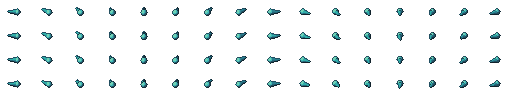
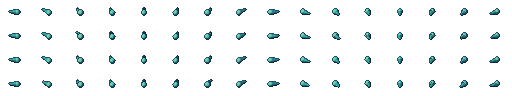
feat: projectiles du joueur plus petits et au même niveau de finition, bordure allégée, traînée de vitesse, vraie assiette, Instantané doré (plan 25 S1c, DECISIONS §159)

diff --git a/tools/sprites/projectiles.py b/tools/sprites/projectiles.py
@@ -2,11 +2,15 @@
 
 Un projectile vole à hauteur de buste ; son avant local est +Z. Les projectiles orientés sont prérendus
 dans 16 directions d'écran pour ne jamais tourner un sprite en jeu (pixels de biais). Les objets qui
-tournoient (hache, pierre) ou rayonnent (orbe, note) portent leur animation dans les frames.
+tournoient (assiette, bille) ou rayonnent (orbe, note) portent leur animation dans les frames.
+
+Projectiles du joueur (plan 25 S1c) : chacun est rendu à sa taille finale, sans agrandissement en jeu qui épaissirait
+pixels et contour ; une flèche fait environ la moitié de la hauteur d'un héros, une bille un quart. Les tirs
+physiques laissent une courte traînée de vitesse (`streak`), qui les fait lire comme des objets lancés.
 """
 from __future__ import annotations
 
-from dataclasses import dataclass
+from dataclasses import dataclass, replace
 from typing import Callable, Sequence
 
 import numpy as np
@@ -29,6 +33,8 @@ class ProjectileModel:
     outline: str | None = None
     dissolve: bool = False
     opacity: tuple[int, ...] = ()
+    # Longueur en pixels de la traînée pâle laissée derrière un projectile orienté, 0 sans traînée.
+    streak: int = 0
 
 
 def _rotated(distance, rotation: np.ndarray):
@@ -40,6 +46,14 @@ def _flat(distance, squash: float):
     """Aplatit un volume en hauteur (Y) : une pièce couchée au sol se lit de dessus, comme une aiguille de boussole."""
     factor = np.array([1.0, squash, 1.0])
     return lambda p: distance(p * factor) / squash
+
+
+def _sized(model: ProjectileModel, factor: float, frame_size: tuple[int, int] | None = None) -> ProjectileModel:
+    """Le même modèle mis à l'échelle en volume : redessiné à sa taille finale, contour d'un pixel compris."""
+    def parts(frame: int) -> Sequence[Part]:
+        return [replace(part, distance=lambda p, distance=part.distance: distance(p / factor) * factor)
+                for part in model.parts(frame)]
+    return replace(model, parts=parts, frame_size=frame_size or model.frame_size)
 
 
 def _arrow() -> ProjectileModel:
@@ -56,7 +70,7 @@ def _arrow() -> ProjectileModel:
             Part(lambda p: rounded_box(p, (0, -2.2, -11), (0.35, 2.0, 2.8), 0.3), 3),
         )
 
-    return ProjectileModel(materials, parts, (32, 24), 16, 1, 0)
+    return _sized(ProjectileModel(materials, parts, (32, 24), 16, 1, 0, streak=5), 0.76)
 
 
 def _bolt() -> ProjectileModel:
@@ -73,7 +87,7 @@ def _bolt() -> ProjectileModel:
             Part(lambda p: rounded_box(p, (0, 0, -6), (3.2, 0.4, 1.8), 0.2), 2),
         )
 
-    return ProjectileModel(materials, parts, (24, 24), 16, 1, 0)
+    return _sized(ProjectileModel(materials, parts, (24, 24), 16, 1, 0, streak=4), 0.88)
 
 
 def _needle() -> ProjectileModel:
@@ -88,7 +102,7 @@ def _needle() -> ProjectileModel:
             Part(lambda p: cylinder(p, (0, 0.3, 0), 2.2, 0.9, 0.3), 2),
         )
 
-    return ProjectileModel(materials, parts, (32, 24), 16, 1, 0)
+    return _sized(ProjectileModel(materials, parts, (32, 24), 16, 1, 0, streak=4), 0.92)
 
 
 def _shard() -> ProjectileModel:
@@ -106,22 +120,24 @@ def _shard() -> ProjectileModel:
             Part(lambda p: capsule(p, (0, 0, -8), (0, 0, -16), 0.9, 0.2), 2),
         )
 
-    return ProjectileModel(materials, parts, (32, 24), 16, 1, 0)
+    return _sized(ProjectileModel(materials, parts, (32, 24), 16, 1, 0), 0.88)
 
 
 def _flash() -> ProjectileModel:
-    """Flash photo : étoile de lumière à quatre branches qui palpite, sans orientation."""
-    materials = (make_emissive("burst", "#F5F0FF"), make_material("halo", "#B8A8E8", contrast=0.7))
-    sizes = (6.0, 8.5, 7.0, 9.0)
+    """Flash de l'Instantané : étoile de lumière à quatre branches qui palpite, sans orientation. Cœur chaud et
+    branches dorées : un flash blanc se perdait dans les éclairs d'impact, blancs eux aussi."""
+    materials = (make_emissive("core", "#FFF6D6"), make_emissive("burst", "#FFC53A"),
+                 make_material("glint", "#E8742A", contrast=0.9))
+    sizes = (4.6, 6.2, 5.2, 6.8)
 
     def parts(frame: int) -> Sequence[Part]:
         size = sizes[frame]
         return (
-            Part(lambda p: sphere(p, (0, 0, 0), 2.4), 0),
-            Part(lambda p: capsule(p, (-size, 0, 0), (size, 0, 0), 1.3, 1.3), 0),
-            Part(lambda p: capsule(p, (0, -size * 0.8, 0), (0, size * 0.8, 0), 1.3, 1.3), 0),
-            Part(lambda p: capsule(p, (-size * 0.45, -size * 0.45, 0), (size * 0.45, size * 0.45, 0), 0.7), 1),
-            Part(lambda p: capsule(p, (-size * 0.45, size * 0.45, 0), (size * 0.45, -size * 0.45, 0), 0.7), 1),
+            Part(lambda p: capsule(p, (-size, 0, 0), (size, 0, 0), 1.1, 1.1), 1),
+            Part(lambda p: capsule(p, (0, -size * 0.8, 0), (0, size * 0.8, 0), 1.1, 1.1), 1),
+            Part(lambda p: capsule(p, (-size * 0.45, -size * 0.45, 0), (size * 0.45, size * 0.45, 0), 0.6), 2),
+            Part(lambda p: capsule(p, (-size * 0.45, size * 0.45, 0), (size * 0.45, -size * 0.45, 0), 0.6), 2),
+            Part(lambda p: sphere(p, (0, 0, 0.5), 2.0), 0),
         )
 
     return ProjectileModel(materials, parts, (24, 24), 1, len(sizes), 14)
@@ -140,7 +156,7 @@ def _chalk() -> ProjectileModel:
             Part(_rotated(lambda p: capsule(p, (0, 5, 0), (0, 8.5, 0), 2.0, 0.5), spin), 2),
         )
 
-    return ProjectileModel(materials, parts, (24, 24), 16, 4, 14)
+    return ProjectileModel(materials, parts, (24, 24), 16, 4, 14, streak=4)
 
 
 def _stone() -> ProjectileModel:
@@ -156,7 +172,7 @@ def _stone() -> ProjectileModel:
             Part(lambda p: sphere(p, (-1.6, 2.4, 1.8), 1.1), 2),
         )
 
-    return ProjectileModel(materials, parts, (24, 24), 1, 4, 14)
+    return ProjectileModel(materials, parts, (16, 16), 16, 4, 14, streak=4)
 
 
 def _flame() -> ProjectileModel:
@@ -175,7 +191,7 @@ def _flame() -> ProjectileModel:
             Part(lambda p: capsule(p, (2.2, 1.5, 0), (3.2 + lean, 7, -1), 1.6, 0.2), 2),
         )
 
-    return ProjectileModel(materials, parts, (24, 32), 1, len(sway), 12)
+    return _sized(ProjectileModel(materials, parts, (24, 32), 1, len(sway), 12), 1.15)
 
 
 def _comet() -> ProjectileModel:
@@ -193,23 +209,27 @@ def _comet() -> ProjectileModel:
             Part(lambda p: capsule(p, (bend, 0.4, -7), (-bend, 0.8, -13), 1.6, 0.3), 2),
         )
 
-    return ProjectileModel(materials, parts, (32, 24), 16, len(sway), 10)
+    return _sized(ProjectileModel(materials, parts, (32, 24), 16, len(sway), 10), 0.95)
 
 
-def _axe() -> ProjectileModel:
-    materials = (make_material("handle", "#7A5C42"), make_material("blade", "#9E9494", contrast=1.2),
-                 make_material("edge", "#E8E0D4", contrast=0.7))
+def _plate() -> ProjectileModel:
+    """Assiette lancée à plat comme un palet : faïence blanche à liseré bleu, qui vacille en tournant ; le motif
+    du marli fait le tour pour montrer la rotation."""
+    materials = (make_material("rim", "#4A6FA8", contrast=1.0), make_material("faience", "#E8E4DA", contrast=0.8),
+                 make_material("well", "#C9C2B4", contrast=0.6))
 
     def parts(frame: int) -> Sequence[Part]:
-        # Tournoiement vers l'avant, un quart de tour par frame.
-        spin = rotation_x(frame * np.pi / 2)
+        turn = frame * np.pi / 2
+        wobble = rotation_x(0.22 * np.cos(turn)) @ rotation_z(0.22 * np.sin(turn))
+        motif = (np.cos(turn) * 4.6, 0.75, np.sin(turn) * 4.6)
         return (
-            Part(_rotated(lambda p: capsule(p, (0, -7, 0), (0, 6, 0), 1.2), spin), 0),
-            Part(_rotated(lambda p: rounded_box(p, (0, 4.5, 2.6), (0.7, 2.8, 2.8), 0.4), spin), 1),
-            Part(_rotated(lambda p: rounded_box(p, (0, 4.5, 5.4), (0.5, 3.1, 0.6), 0.2), spin), 2),
+            Part(_rotated(lambda p: cylinder(p, (0, 0, 0), 7.0, 0.6, 0.3), wobble), 0),
+            Part(_rotated(lambda p: cylinder(p, (0, 0.1, 0), 5.6, 0.6, 0.2), wobble), 1),
+            Part(_rotated(lambda p: cylinder(p, (0, 0.2, 0), 3.0, 0.55, 0.2), wobble), 2),
+            Part(_rotated(lambda p: sphere(p, motif, 0.8), wobble), 0),
         )
 
-    return ProjectileModel(materials, parts, (24, 24), 16, 4, 16)
+    return ProjectileModel(materials, parts, (24, 24), 16, 4, 14, streak=4)
 
 
 def _envelope() -> ProjectileModel:
@@ -254,7 +274,7 @@ def _note() -> ProjectileModel:
             Part(_rotated(lambda p: capsule(p, (1.9, 5.0, 0), (4.3, 2.4, 0), 0.8), tilt), 0),
         )
 
-    return ProjectileModel(materials, parts, (16, 16), 1, 2, 4)
+    return _sized(ProjectileModel(materials, parts, (16, 16), 1, 2, 4), 1.7, (20, 28))
 
 
 def _spit() -> ProjectileModel:
@@ -361,7 +381,7 @@ MODELS: dict[str, Callable[[], ProjectileModel]] = {
     "bolt": _bolt,
     "needle": _needle,
     "shard": _shard,
-    "axe": _axe,
+    "plate": _plate,
     "envelope": _envelope,
     "letter": _letter,
     "stone": _stone,

diff --git a/tools/generate_projectiles.py b/tools/generate_projectiles.py
@@ -18,6 +18,7 @@ import math
 import sys
 from pathlib import Path
 
+import numpy as np
 from PIL import Image, ImageDraw, ImageFont
 
 sys.path.insert(0, str(Path(__file__).resolve().parent.parent))
@@ -54,9 +55,33 @@ def render_model(model: ProjectileModel) -> list[Image.Image]:
                         for x in range(width):
                             if (x + y * 3) % 5 < frame - 1:
                                 layer.putpixel((x, y), (0, 0, 0, 0))
+            if model.streak:
+                _draw_streak(layers[-1], layers, angle, model.streak)
             for sheet, layer in zip(sheets, layers):
                 sheet.alpha_composite(layer, (direction * width, frame * height))
     return sheets
+
+
+STREAK_COLOR = (245, 236, 214)
+
+
+def _draw_streak(target: Image.Image, layers: list[Image.Image], angle: float, length: int) -> None:
+    """Traînée de vitesse : une ligne d'un pixel qui part de l'arrière de la silhouette, sur l'axe du vol, et
+    s'estompe. Semi-transparente, elle ne reçoit pas le liseré du shader, posé autour des seuls pixels opaques."""
+    covered = np.zeros((target.height, target.width), dtype=bool)
+    for layer in layers:
+        covered |= np.asarray(layer.getchannel("A")) > 0
+    ys, xs = np.nonzero(covered)
+    if len(xs) == 0:
+        return
+    forward = np.array([math.cos(angle), math.sin(angle)])
+    center = np.array([xs.mean(), ys.mean()])
+    along = (xs - center[0]) * forward[0] + (ys - center[1]) * forward[1]
+    tail = center + forward * along.min()
+    for step in range(1, length + 1):
+        x, y = np.rint(tail - forward * step).astype(int)
+        if 0 <= x < target.width and 0 <= y < target.height and not covered[y, x]:
+            target.putpixel((int(x), int(y)), (*STREAK_COLOR, int(150 * (1 - (step - 1) / length))))
 
 
 def write_biome_sheet(sheets: dict[str, Image.Image], path: Path) -> None:

diff --git a/scripts/Infrastructure/WeaponVisualConfig.cs b/scripts/Infrastructure/WeaponVisualConfig.cs
@@ -1,5 +1,4 @@
 using System;
-using System.Collections.Generic;
 using Godot;
 
 namespace Vestiges.Infrastructure;
@@ -28,10 +27,6 @@ public sealed class WeaponVisualConfig
     public float WaveInterval { get; private init; }
     /// <summary>Fronts d'onde dessinés au plus dans le cône du Transistor.</summary>
     public int ConeMaxFronts { get; private init; }
-    private readonly Dictionary<string, float> _projectileBaseScale = new();
-
-    /// <summary>Échelle de base d'un sprite de projectile du joueur, 1 s'il se lit déjà (DECISIONS §53).</summary>
-    public float ProjectileBaseScale(string spriteId) => _projectileBaseScale.GetValueOrDefault(spriteId ?? "", 1f);
 
     /// <summary>Échelle d'un visuel d'arme pour un multiplicateur de taille donné, jamais sous 1 ni au-delà du plafond.</summary>
     public float ScaleFor(float sizeMultiplier) => Mathf.Clamp(1f + (sizeMultiplier - 1f) * SizeResponse, 1f, MaxScale);
@@ -59,9 +54,6 @@ public sealed class WeaponVisualConfig
             WaveInterval = (float)data["wave_interval_s"].AsDouble(),
             ConeMaxFronts = (int)data["cone_max_fronts"].AsDouble(),
         };
-        if (data.ContainsKey("projectile_base_scale"))
-            foreach ((Variant key, Variant value) in data["projectile_base_scale"].AsGodotDictionary())
-                _cached._projectileBaseScale[key.AsString()] = (float)value.AsDouble();
         return _cached;
     }
 }

diff --git a/scripts/Combat/Projectile.cs b/scripts/Combat/Projectile.cs
@@ -142,8 +142,8 @@ public partial class Projectile : Area2D, ITicked
             spriteId = _family == FxFamily.Fire ? "orb_fire" : "orb_essence";
         _glowTrail = spriteId is "orb_fire" or "orb_essence" or "shard" or "note" or "flash";
         _spriteSet = ProjectileSprites.Get(spriteId) ?? ProjectileSprites.Get("arrow");
-        // Les petits sprites (notes, billes, orbes) ont une échelle de base, sans toucher à la zone de contact (§53).
-        _sprite.Scale = Vector2.One * sizeScale * WeaponVisualConfig.Load().ProjectileBaseScale(spriteId);
+        // Chaque sprite est dessiné à sa taille finale (plan 25 S1c) : seule la stat de taille l'agrandit.
+        _sprite.Scale = Vector2.One * sizeScale;
         _spriteDirection = -1;
         _spriteFrame = -1;
         _sprite.Visible = CombatFxSettings.PlayerProjectiles && _spriteSet != null;

diff --git a/scripts/Combat/PlayerAttackFx.cs b/scripts/Combat/PlayerAttackFx.cs
@@ -198,7 +198,7 @@ public sealed class PlayerAttackFx
             Name = "Visual",
             Texture = set?.Get(0, 0),
             Position = new Vector2(0f, -TorsoHeight),
-            Scale = Vector2.One * sizeScale * WeaponVisualConfig.Load().ProjectileBaseScale("note"),
+            Scale = Vector2.One * sizeScale,
             Material = ProjectileMaterial,
             Visible = set != null && CombatFxSettings.PlayerProjectiles,
             Modulate = new Color(1f, 1f, 1f, CombatFxSettings.PlayerOpacity),

diff --git a/doc/plans/25-sprites-et-design.md b/doc/plans/25-sprites-et-design.md
@@ -589,6 +589,20 @@ Planche validée par Raphaël (DECISIONS §61). PNG régénérés (`tools/genera
 
 **Vérification :** build sans avertissement, smoke vert, suites armes, UI, objets vertes (4/4). Captures en run des 11 armes à distance inspectées ([première passe](../audits/sprites-2026-10-03/s1b-projectiles-premiere-passe.png), [après réglage des échelles](../audits/sprites-2026-10-03/s1b-projectiles-en-jeu.png)) : chaque arme se reconnaît à son projectile. L'éclat de phare reste petit en vol, à juger en jeu.
 
+### S1c — projectiles au même niveau de finition, 13 octobre (DECISIONS §159)
+
+Raphaël : les projectiles des armes à distance « ne ressemblent plus à des projectiles mais à des armes », trop gros, bordure trop épaisse ; l'Instantané au contraire se voit mal. Mesure à côté du Facteur (13 × 28 px) : flèche 21 px, bille 11 px, comète 20 px. Bordure : contour du sprite, liseré crème à 0,45 et halo à 0,1, soit 2 à 3 px autour d'un objet de 6 px. Les échelles de base ×1,3, ×1,4 et ×2, non entières, épaississaient aussi pixels et contour. L'Instantané blanc et lavande se confondait avec les éclairs d'impact, blancs eux aussi.
+
+[Planche avant/après](planches/25-s1c-projectiles-joueur.png), validée avec deux reprises (Assiettes, Instantané) :
+
+- **Taille finale dans le modèle** (`_sized` dans `tools/sprites/projectiles.py`) : flèche ~16 px, carreau et aiguille ~12, éclat ~13, bille ~8, comète ~13, flamme ~8 × 11, note ~9 × 15, craie et enveloppe inchangées. `projectile_base_scale` est supprimé (`weapon_visuals.json`, `WeaponVisualConfig`) : en jeu, seule la stat de taille agrandit un projectile.
+- **Bordure :** contour du sprite gardé ; liseré du shader ramené à 0,25 et posé autour des seuls pixels opaques ; halo supprimé (`player_projectile.gdshader`).
+- **Traînée de vitesse** dessinée dans la planche (`streak`) : une ligne pâle de 4 à 5 px qui s'estompe derrière la flèche, le carreau, l'aiguille, la bille, la craie et l'assiette. La bille et l'assiette passent à 16 directions pour l'orienter.
+- **Assiettes :** la hache est remplacée par une assiette de faïence à liseré bleu qui vacille en tournant (`plate`, `proj_axe.png` supprimé).
+- **Instantané :** même étoile, plus petite, cœur chaud et branches dorées.
+
+**Vérification :** build sans avertissement, smoke vert, suite armes verte ; enveloppe et lettre régénérées identiques octet pour octet ; captures en run des 12 armes à distance et de la Boîte à musique inspectées.
+
 ### S2 à S4 — personnages joués repris et intégrés, 3 octobre
 
 Direction retenue par Raphaël entre « stylisé » et « grosse tête » (DECISIONS §61). [Planche avant/après](planches/25-s9-personnages.png), [animations](planches/25-s9-animations.png).

diff --git a/doc/plans/DECISIONS.md b/doc/plans/DECISIONS.md
@@ -1814,3 +1814,18 @@ Raphaël, découvrant que la Faille est le lieu des améliorations contre Péril
 - le puits à boire n'est plus un petit lieu : le décor des champs reste, sans interaction.
 
 **Choisi par l'agent :** 6 Puits par carte ; le Repère « Puits » (+10 PV max) passe au premier oubli à un Puits, ce qui garde 13 types de Repères.
+
+## 159. Projectiles du joueur : plus petits, bordure allégée, même finition — 13 octobre 2026
+
+Raphaël : « je trouve que c'est trop (je parle des projectiles des armes à distance comme l'arc et les billes). en gros on ne dirait plus des projectiles mais des armes en soit […] ils sont trop gros, ont une trop grosse bordure... d'autres sont trop peu visibles comme l'instantané. il faudrait dans l'ensemble que tous les sprites des projectiles soient au meme "niveau de finition". »
+
+Réponses sur la [planche avant/après](planches/25-s1c-projectiles-joueur.png) : « arc ok, arbalete ok, boussole ok, éclat de phare ok, lance bille ok, assiette ca ne ressemble pas à des assietes. instantané je garderai le meme, mais je le réduirai. [Bâton d'essence], lanterne, craies, le reste, ok. »
+
+**Acquis :**
+- chaque projectile est dessiné à sa taille finale, sans agrandissement en jeu (flèche ~16 px pour un héros de 28 px, bille ~8 px) ;
+- bordure : contour du sprite et liseré crème léger (0,25), sans halo ;
+- traînée de vitesse dessinée dans le sprite derrière les tirs physiques ;
+- Assiettes : une vraie assiette au lieu de la hache ;
+- Instantané : même étoile, plus petite, cœur chaud et branches dorées pour ne plus se perdre dans les éclairs d'impact blancs.
+
+**Livré :** [plan 25 S1c](25-sprites-et-design.md#s1c--projectiles-au-même-niveau-de-finition-13-octobre-decisions-159). À juger en jeu.
